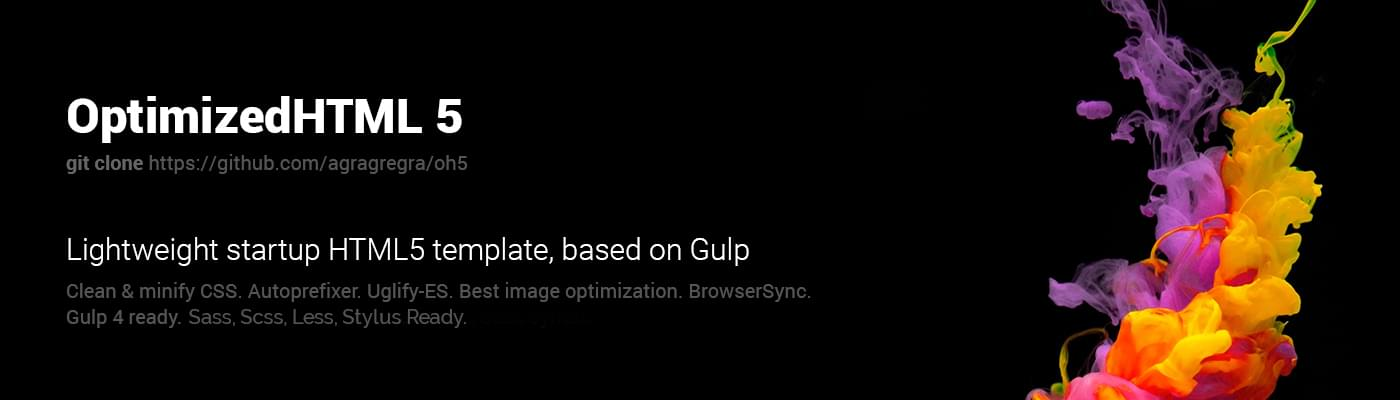
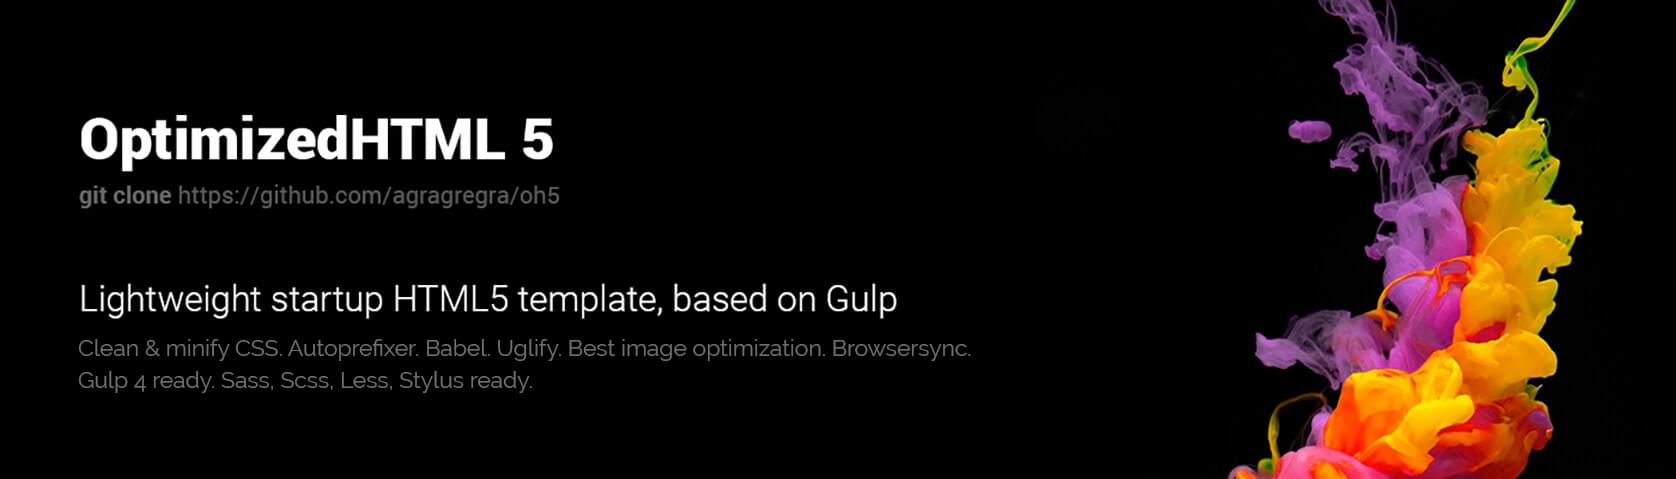
Update

diff --git a/gulpfile.js b/gulpfile.js
@@ -102,7 +102,7 @@ function styles() {
 	.pipe(eval(preprocessor)())
 	.pipe(concat(paths.cssOutputName))
 	.pipe(autoprefixer({ overrideBrowserslist: ['last 10 versions'], grid: true }))
-	.pipe(cleancss( {level: { 1: { specialComments: 0 } },/* format: 'beautify' */ }))
+	.pipe(cleancss({ level: { 1: { specialComments: 0 } },/* format: 'beautify' */ }))
 	.pipe(dest(paths.styles.dest))
 	.pipe(browserSync.stream())
 }

diff --git a/app/js/app.js b/app/js/app.js
@@ -2,4 +2,4 @@ document.addEventListener('DOMContentLoaded', () => {
 
 	// Custom JS
 
-});
+})

diff --git a/readme.md b/readme.md
@@ -5,7 +5,7 @@
 	<img src="https://raw.githubusercontent.com/agragregra/oh5/master/app/images/src/preview.jpg" alt="Start HTML Template">
 </p>
 
-<p><strong>OptimizedHTML 5</strong> - lightweight startup HTML5 template with <strong>Gulp 4</strong>, <strong>Sass/Scss/Less/Stylus</strong>, <strong>Browsersync</strong>, <strong>Autoprefixer</strong>, <strong>Uglify-ES</strong>, <strong>Clean-CSS</strong>, <strong>Rsync</strong>, <strong>CSS Reboot</strong> (Bootstrap reboot). It uses best practices for <strong>responsive images</strong> optimizing and contains a <strong>.htaccess</strong> file for resources caching (images, fonts, HTML, CSS, JS and other content types).</p>
+<p><strong>OptimizedHTML 5</strong> - lightweight startup HTML5 template with <strong>Gulp 4</strong>, <strong>Sass/Scss/Less/Stylus</strong>, <strong>Browsersync</strong>, <strong>Autoprefixer</strong>, <strong>Babel</strong>, <strong>Uglify</strong>, <strong>Clean-CSS</strong>, <strong>Rsync</strong>, <strong>CSS Reboot</strong> (Bootstrap reboot). It uses best practices for <strong>responsive images</strong> optimizing and contains a <strong>.htaccess</strong> file for resources caching (images, fonts, HTML, CSS, JS and other content types).</p>
 
 <h2>How to use OptimizedHTML 5</h2>
 
